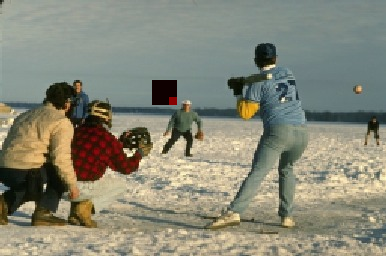
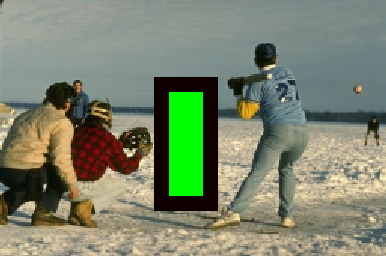
ajout des xq

Changed region(s): [[0.3731, 0.2812, 0.5907, 0.8438]]

diff --git a/node.cpp b/node.cpp
@@ -1,4 +1,5 @@
 #include "node.h"
+#include <fstream>
 
 #include <numeric>
 #ifdef NDEBUG
@@ -67,8 +68,8 @@ std::vector<Node> nodesOverMask(Image const &imageMask,int patchsize, int lmax) 
     return  v;
 }
 
-bool sortArgbelief(Label a,Label b){
-    return a.belief()>b.belief();
+bool sortArgbelief(std::pair<Label,Point> a,std::pair<Label,Point> b){
+    return a.first.belief()>b.first.belief();
 }
 
 bool Node::similarityCondition(const Image &imageInput, const Point &pointLabel,int thresholdSimilarity , int patchSize){
@@ -81,41 +82,47 @@ bool Node::similarityCondition(const Image &imageInput, const Point &pointLabel,
     return true;
 }
 
-void Node::pushConditioned(const Image &imageInput,const Label& label,int lmin,int lmax,int thresholdSimilarity,int patchSize) {
+bool Node::pushConditioned(const Image &imageInput, const Label& label, int lmin, int lmax, int thresholdSimilarity, int patchSize, Point xq) {
     //If the min size is not yet reached we add labels to the confusion set no matter what
+    bool pushed=false;
     if (nodeConfusionSet.size()<lmin){
-        nodeConfusionSet.push_back(label);
+        nodeConfusionSet.push_back(std::pair<Label,Point>(label,xq));
+        pushed=true;
 
     }
     else{
         //If the max size is not yet reached we add label is they are not too similar to the already existing
         if (nodeConfusionSet.size()<lmax && (*this).similarityCondition(imageInput,label.point(),thresholdSimilarity,patchSize)){
-            nodeConfusionSet.push_back(label);
+            nodeConfusionSet.push_back(std::pair<Label,Point>(label,xq));
+
+            pushed=true;
             if (nodeConfusionSet.size()==lmax) std::sort(nodeConfusionSet.begin(),nodeConfusionSet.end(),sortArgbelief);
         }
         //is the max size if reached we add label if they are more believable than the worst label and not too similar to the already existing
-        else if (label.belief()>nodeConfusionSet.back().belief() && (*this).similarityCondition(imageInput,label.point(),thresholdSimilarity,patchSize) ){
+        else if (label.belief()>nodeConfusionSet.back().first.belief() && (*this).similarityCondition(imageInput,label.point(),thresholdSimilarity,patchSize) ){
 
+            pushed=true;
             nodeConfusionSet.pop_back();
 
-            if (label.belief()<=nodeConfusionSet.back().belief()){
-                nodeConfusionSet.push_back(label);
+            if (label.belief()<=nodeConfusionSet.back().first.belief()){
+                nodeConfusionSet.push_back(std::pair<Label,Point>(label,xq));
             }
             else{
                 for (size_t i=0;i<nodeConfusionSet.size();i++){
-                    if (nodeConfusionSet[i].belief()<label.belief()){
-                        nodeConfusionSet.insert(nodeConfusionSet.begin()+i,label);
+                    if (nodeConfusionSet[i].first.belief()<label.belief()){
+                        nodeConfusionSet.insert(nodeConfusionSet.begin()+i,std::pair<Label,Point>(label,xq));
                         break;
                     }
                 }
             }
         }
     }
+    return pushed;
 }
 
 Label Node::label(int i) const{
     assert(i<nodeConfusionSet.size());
-    return nodeConfusionSet[i];}
+    return nodeConfusionSet[i].first;}
 
 
 
@@ -123,11 +130,11 @@ void Node::pruningThresholdConfusion(int thresholdConfusion,int lmin){
 
     if (nodeConfusionSet.size() > lmin) {
         bool breaked=false;
-        int maxBelief = nodeConfusionSet[0].belief();
+        int maxBelief = nodeConfusionSet[0].first.belief();
 
         size_t validIndex = 0;
         for (size_t i = 0; i < nodeConfusionSet.size(); ++i) {
-            if (nodeConfusionSet[i].belief() - maxBelief < thresholdConfusion) {
+            if (nodeConfusionSet[i].first.belief() - maxBelief < thresholdConfusion) {
                 validIndex = i;
                 breaked=true;
                 break;
@@ -148,7 +155,7 @@ void Node::pruningThresholdConfusion(int thresholdConfusion,int lmin){
 
 int Node::worstBelief(){
     if (nodeConfusionSet.empty()){return -std::numeric_limits<int>::max();}
-    return nodeConfusionSet.back().belief() ;}
+    return nodeConfusionSet.back().first.belief() ;}
 
 Image visualiseNodesAndVertices(Image const &imageMask, std::vector<Node> v,int patchsize) {
     Image nodesAndVertices(imageMask.width(),imageMask.height(),3);
@@ -233,21 +240,42 @@ bool sortArgSize(const Node &a,const Node &b){
 
 void saveNodeCandidate(const Node & nodeCandidate,const Image& imageInput,
                        int patchSize, std::string path,int r,int s,int m){
+    std::ofstream outFile;
+
     if (nodeCandidate.size()>0){
         Image candidates=visualizeCandidate(nodeCandidate,imageInput,patchSize);
         std::string name=std::string(path+"/candidates/"+
-                                       std::to_string(r)+"R"+
-                                       std::to_string(s)+"S"+
-                                       std::to_string(nodeCandidate.getIndex())+"I"+
-                                       std::to_string(nodeCandidate.getx())+"X"+
-                                       std::to_string(nodeCandidate.gety())+"Y"+
+                                       std::to_string(r)+"R_"+
+                                       std::to_string(s)+"S_"+
+                                       std::to_string(nodeCandidate.getIndex())+"I_"+
+                                       std::to_string(nodeCandidate.getx())+"X_"+
+                                       std::to_string(nodeCandidate.gety())+"Y_"+
                                        std::to_string(m)+"M.png");
         if (!save_image(name.c_str(),candidates)){
             std::cerr << "Error writing file "+name << std::endl;
         }
+        outFile.open(std::string(path+"/candidates/"+
+                                 std::to_string(r)+"R_"+
+                                 std::to_string(s)+"S_"+
+                                 std::to_string(nodeCandidate.getIndex())+"I_"+
+                                 std::to_string(nodeCandidate.getx())+"X_"+
+                                 std::to_string(nodeCandidate.gety())+"Y_"+
+                                 std::to_string(m)+"M.txt").c_str(),std::ios::out);
+
+        for (size_t i=0;i<nodeCandidate.size();i++){
+
+
+            outFile<<nodeCandidate.label(i).point().first<<' '<<nodeCandidate.label(i).point().second<<' '<<nodeCandidate.label(i).belief()<<std::endl;
+
+        }
+        outFile.close();
     }
 
 }
+
+
+
+
 
 std::vector<Node> assignInitialPriority( const Image& imageInput,const Image& imageMaskExtended,const Image& imageMask,
                                                        int patchSize, int lmin, int lmax,
@@ -292,10 +320,10 @@ std::vector<Node> assignInitialPriority( const Image& imageInput,const Image& im
 
 
 
-                    //If the size condition is met we start to discriminate the patches
-                    //if (potential<thresholdConfusion){
+                    bool pushedVoid;
+                    Point xq(0,0);
 
-                    confusionSets[i].pushConditioned(imageInput,currentLabel,lmin,lmax,thresholdSimilarity,patchSize);
+                    pushedVoid=confusionSets[i].pushConditioned(imageInput,currentLabel,lmin,lmax,thresholdSimilarity,patchSize,xq);
 
 
                 }
@@ -348,21 +376,16 @@ std::vector<bool> intializeTrueVector(int size){
 }
 
 
-void Node::normalizeMessage(){
 
-    for (size_t i=0;i<nodeConfusionSet.size();i++){
-        nodeConfusionSet[i].normalizeMessage();
-    }
-}
 
-double Node::messageReceived(  const Node  &sender, const Point &coordPatchCandidate, const Image &imageInput,int patchSize){
+std::pair<double,Point> Node::messageReceived(  const Node  &sender, const Point &coordPatchCandidate, const Image &imageInput,int patchSize){
     //correspond to the message reveived by this from sender by choosing coordPatchCandidate as patch
     double bestMessage=std::numeric_limits<double>::max();
-    std::vector<Label> confusionSetSender=sender.getNodeConfusionSet();
-
+    std::vector<std::pair<Label,Point> > confusionSetSender=sender.getNodeConfusionSet();
+    Point bestxq;
     for (size_t i=0;i<confusionSetSender.size();i++){
 
-        Label labelSender=confusionSetSender[i];
+        Label labelSender=confusionSetSender[i].first;
         double messageSent=labelSender.getPotential();
         messageSent+=imageInput.ssdOverlap(sender.point(),(*this).point(),labelSender.point(),coordPatchCandidate,patchSize);
 
@@ -407,13 +430,14 @@ double Node::messageReceived(  const Node  &sender, const Point &coordPatchCandi
         //std::cout<<i<<'/'<<messageSent<<std::endl;
         if (bestMessage>messageSent){
             bestMessage=messageSent;
+            bestxq=confusionSetSender[i].first.point();
         }
 
         //std::cout<<i<<'/'<<bestMessage<<std::endl;
 
     }
 
-    return  bestMessage;
+    return  std::pair<double,Point> (bestMessage,bestxq);
 }
 
 void Node::createNodeConfusionSet(const Node &sender,
@@ -426,6 +450,7 @@ void Node::createNodeConfusionSet(const Node &sender,
     }
     assert((*this).getIndex()!=sender.getIndex());
 
+    std::vector<std::pair<Label,Label> > labelsPushed;
 
 
     for (int x=patchSize/2;x<imageMaskExtended.width()-patchSize/2;x++) {
@@ -436,7 +461,8 @@ void Node::createNodeConfusionSet(const Node &sender,
                 Point labelPoint(x,y);
                 Label currentLabel(labelPoint,0);
                 //std::cout<<"sender size :"<<sender.size()<<std::endl;
-                double messageFromSender=(*this).messageReceived(sender,labelPoint,imageInput,patchSize);
+                std::pair<double,Point> messageAndPointFromSender=(*this).messageReceived(sender,labelPoint,imageInput,patchSize);
+                double messageFromSender=messageAndPointFromSender.first;
                 if ( messageFromSender<0){
                     assert(messageFromSender>=0);
 
@@ -459,10 +485,9 @@ void Node::createNodeConfusionSet(const Node &sender,
                 }
 
 
-                //If the size condition is met we start to discriminate the patches
-                //if (potential<thresholdConfusion){
+                bool pushed;
 
-                (*this).pushConditioned(imageInput,currentLabel,lmin,lmax,thresholdSimilarity,patchSize);
+                pushed=(*this).pushConditioned(imageInput,currentLabel,lmin,lmax,thresholdSimilarity,patchSize,messageAndPointFromSender.second);
 
 
             }
@@ -495,30 +520,30 @@ void Node::updateNodeConfusionSet(const Node &sender, const Image &imageMaskExte
         std::cout<<"updateNodeConfusionSet"<<std::endl;
         assert(sender.size()>=lmin);
     }
-    std::vector<Label> & receiverNodeConfusionSet=this->getNodeConfusionSet();
+    std::vector<std::pair<Label,Point> > & receiverNodeConfusionSet=this->getNodeConfusionSet();
 
     for (size_t i=0;i<(*this).size();i++) {
 
-            Point labelPoint(receiverNodeConfusionSet[i].point());
-            double messageFromSender=(*this).messageReceived(sender,labelPoint,imageInput,patchSize);
-
+            Point labelPoint(receiverNodeConfusionSet[i].first.point());
+            std::pair<double,Point> messageAndPointFromSender=(*this).messageReceived(sender,labelPoint,imageInput,patchSize);
+            double messageFromSender=messageAndPointFromSender.first;
             if (messageFromSender<0){
                 std::cout<<messageFromSender<<std::endl;
                 assert(messageFromSender>=0);
             }
             if (sender.point().first>(*this).point().first){//Message from the right
                 //std::cout<<"avant"<<this->getNodeConfusionSet()[i].getMessageFromRight()<<std::endl;
-                receiverNodeConfusionSet[i].setMessageFromRight(messageFromSender);//pos potential left right top botom
+                receiverNodeConfusionSet[i].first.setMessageFromRight(messageFromSender);//pos potential left right top botom
                 //std::cout<<"apres"<<this->getNodeConfusionSet()[i].getMessageFromRight()<<std::endl;
             }
             else if(sender.point().first<(*this).point().first){//Message from the left
-                receiverNodeConfusionSet[i].setMessageFromLeft(messageFromSender);
+                receiverNodeConfusionSet[i].first.setMessageFromLeft(messageFromSender);
             }
             else if(sender.point().second>(*this).point().second){//Message from the top
-                receiverNodeConfusionSet[i].setMessageFromTop(messageFromSender);
+                receiverNodeConfusionSet[i].first.setMessageFromTop(messageFromSender);
             }
             else if (sender.point().second<(*this).point().second) {//Message from the bottom
-                receiverNodeConfusionSet[i].setMessageFromBottom(messageFromSender);
+                receiverNodeConfusionSet[i].first.setMessageFromBottom(messageFromSender);
             }
             else{
                 std::cout<<"message not from neighbor updateNodeConfusionSet"<<std::endl;
@@ -549,30 +574,30 @@ void Node::updateNodeConfusionSetNoPruning(const Node &sender, const Image &imag
         std::cout<<"updateNodeConfusionSet"<<std::endl;
         assert(sender.size()>=lmin);
     }
-    std::vector<Label> & receiverNodeConfusionSet=this->getNodeConfusionSet();
+    std::vector<std::pair<Label,Point> > & receiverNodeConfusionSet=this->getNodeConfusionSet();
 
     for (size_t i=0;i<(*this).size();i++) {
 
-        Point labelPoint(receiverNodeConfusionSet[i].point());
-        double messageFromSender=(*this).messageReceived(sender,labelPoint,imageInput,patchSize);
-
+        Point labelPoint(receiverNodeConfusionSet[i].first.point());
+        std::pair<double,Point> messageAndPointFromSender=(*this).messageReceived(sender,labelPoint,imageInput,patchSize);
+        double messageFromSender=messageAndPointFromSender.first;
         if (messageFromSender<0){
             std::cout<<messageFromSender<<std::endl;
             assert(messageFromSender>=0);
         }
         if (sender.point().first>(*this).point().first){//Message from the right
             //std::cout<<"avant"<<this->getNodeConfusionSet()[i].getMessageFromRight()<<std::endl;
-            receiverNodeConfusionSet[i].setMessageFromRight(messageFromSender);//pos potential left right top botom
+            receiverNodeConfusionSet[i].first.setMessageFromRight(messageFromSender);//pos potential left right top botom
             //std::cout<<"apres"<<this->getNodeConfusionSet()[i].getMessageFromRight()<<std::endl;
         }
         else if(sender.point().first<(*this).point().first){//Message from the left
-            receiverNodeConfusionSet[i].setMessageFromLeft(messageFromSender);
+            receiverNodeConfusionSet[i].first.setMessageFromLeft(messageFromSender);
         }
         else if(sender.point().second>(*this).point().second){//Message from the top
-            receiverNodeConfusionSet[i].setMessageFromTop(messageFromSender);
+            receiverNodeConfusionSet[i].first.setMessageFromTop(messageFromSender);
         }
         else if (sender.point().second<(*this).point().second) {//Message from the bottom
-            receiverNodeConfusionSet[i].setMessageFromBottom(messageFromSender);
+            receiverNodeConfusionSet[i].first.setMessageFromBottom(messageFromSender);
         }
         else{
             std::cout<<"message not from neighbor updateNodeConfusionSet"<<std::endl;
@@ -756,7 +781,7 @@ Image imageReconstructed(const std::vector<Node> &InitialPriority, int patchSize
         if (true){//InitialPriority[i].size()>1){
         Point p=InitialPriority[i].point();
 
-        Label l=InitialPriority[i].label(0);
+            Label l=InitialPriority[i].getBestLabel();
         Point lp=l.point();
         for (int x=-patchSize/2;x<=patchSize/2;x++){
             for (int y=-patchSize/2;y<=patchSize/2;y++){
@@ -819,6 +844,7 @@ Image visualizeCandidate(const Node nodeCandidate,const Image &imageInput,int pa
 
 Image backwardPass(std::vector<Node> &InitialPriority,std::vector<int> commitStack,const Image &imageInput, const Image &imageMaskExtended,int patchSize,int thresholdSimilarity,int thresholdConfusion,
                    int lmin,int lmax,std::string path){
+
     std::vector<bool> commitList=intializeTrueVector(InitialPriority.size());
     Image orderOfVisit=imageMaskExtended.clone();
     int index;

diff --git a/node.h b/node.h
@@ -71,7 +71,7 @@ class Node{
     int rightNeighbor;
     int bottomNeighbor;
 
-    std::vector<Label> nodeConfusionSet; // this isnt entirely equal to the definition of condusionSet in the paper
+    std::vector<std::pair<Label,Point> > nodeConfusionSet; // this isnt entirely equal to the definition of condusionSet in the paper
 
 public:
     Node(int index,Point nodePoint,int lmax);
@@ -92,8 +92,8 @@ public:
     int getIndex()const {return index;}
 
 
-    std::vector<Label>& getNodeConfusionSet() { return nodeConfusionSet; }
-    const std::vector<Label>& getNodeConfusionSet() const { return nodeConfusionSet; }
+    std::vector<std::pair<Label,Point> >& getNodeConfusionSet() { return nodeConfusionSet; }
+    const std::vector<std::pair<Label,Point> >& getNodeConfusionSet() const { return nodeConfusionSet; }
     void addLeftNeighbor(int i){leftNeighbor=i;}
     void addRightNeighbor(int i){rightNeighbor=i;}
     void addTopNeighbor(int i){topNeighbor=i;}
@@ -116,7 +116,7 @@ public:
 
 
 
-    void pushConditioned(const Image &imageInput,const Label& label,int lmin,int lmax,int thresholdSimilarity,int patchSize);
+    bool pushConditioned(const Image &imageInput,const Label& label,int lmin,int lmax,int thresholdSimilarity,int patchSize, Point xq);
 
     Label label(int i)const;
 
@@ -126,7 +126,7 @@ public:
     bool inStack(const std::vector<int> &stack);
 
     void createNodeConfusionSet(const Node &sender, const Image &imageMaskExtended, const Image &imageInput, int patchSize, int thresholdSimilarity, int pruningThresholdConfusion, int lmin, int lmax, std::string path, int s);
-    double messageReceived(  const Node  &sender, const Point &coordPatchCandidate, const Image &imageInput,int patchSize);
+    std::pair<double,Point> messageReceived(  const Node  &sender, const Point &coordPatchCandidate, const Image &imageInput,int patchSize);
     void updateNodeConfusionSet(const Node &sender, const Image &imageMaskExtended, const Image &imageInput, int patchSize, int thresholdSimilarity, int pruningThresholdConfusion, int lmin, int lmax, std::string path, int s);
     void updateNodeConfusionSetNoPruning(const Node &sender, const Image &imageMaskExtended,const Image &imageInput,int patchSize,int thresholdSimilarity,int thresholdConfusion,int lmin,int lmax,std::string path,int s);
 

diff --git a/main.cpp b/main.cpp
@@ -54,7 +54,7 @@ int main(int argc, char *argv[]) {
         return 0; //here we only want one picture --> test
     }
 
-    int patchSize=17;
+    int patchSize=15;
     int lmin=3;
     int lmax=20;
     int thresholdConfusion =-patchSize*patchSize*600;//à diminuer
@@ -64,7 +64,7 @@ int main(int argc, char *argv[]) {
 
 
     //imageInput is located in argv[1]+'/baseball.png'
-    std::string imagePath = std::string(argv[1]) + "/baseball.png";
+    std::string imagePath = std::string(argv[1]) +"/baseball.png";
     Image imageInput=loadImage(imagePath.c_str());
 
 
@@ -73,7 +73,7 @@ int main(int argc, char *argv[]) {
     Image imageMaskTemp=loadImage(maskPath.c_str());
 
     //Image imageMask(imageMaskTemp.gray().clone());
-    Image imageMask=imageMaskTemp.simplifyMaskToOnePixel(162,95,163,96);
+    Image imageMask=imageMaskTemp.simplifyMaskToOnePixel(162,90,210,200);
 
     if(! save_image(std::string(std::string(argv[1]) + "/imageMask.png").c_str(), imageMask)) {
         std::cerr << "Error writing file " << std::endl;
